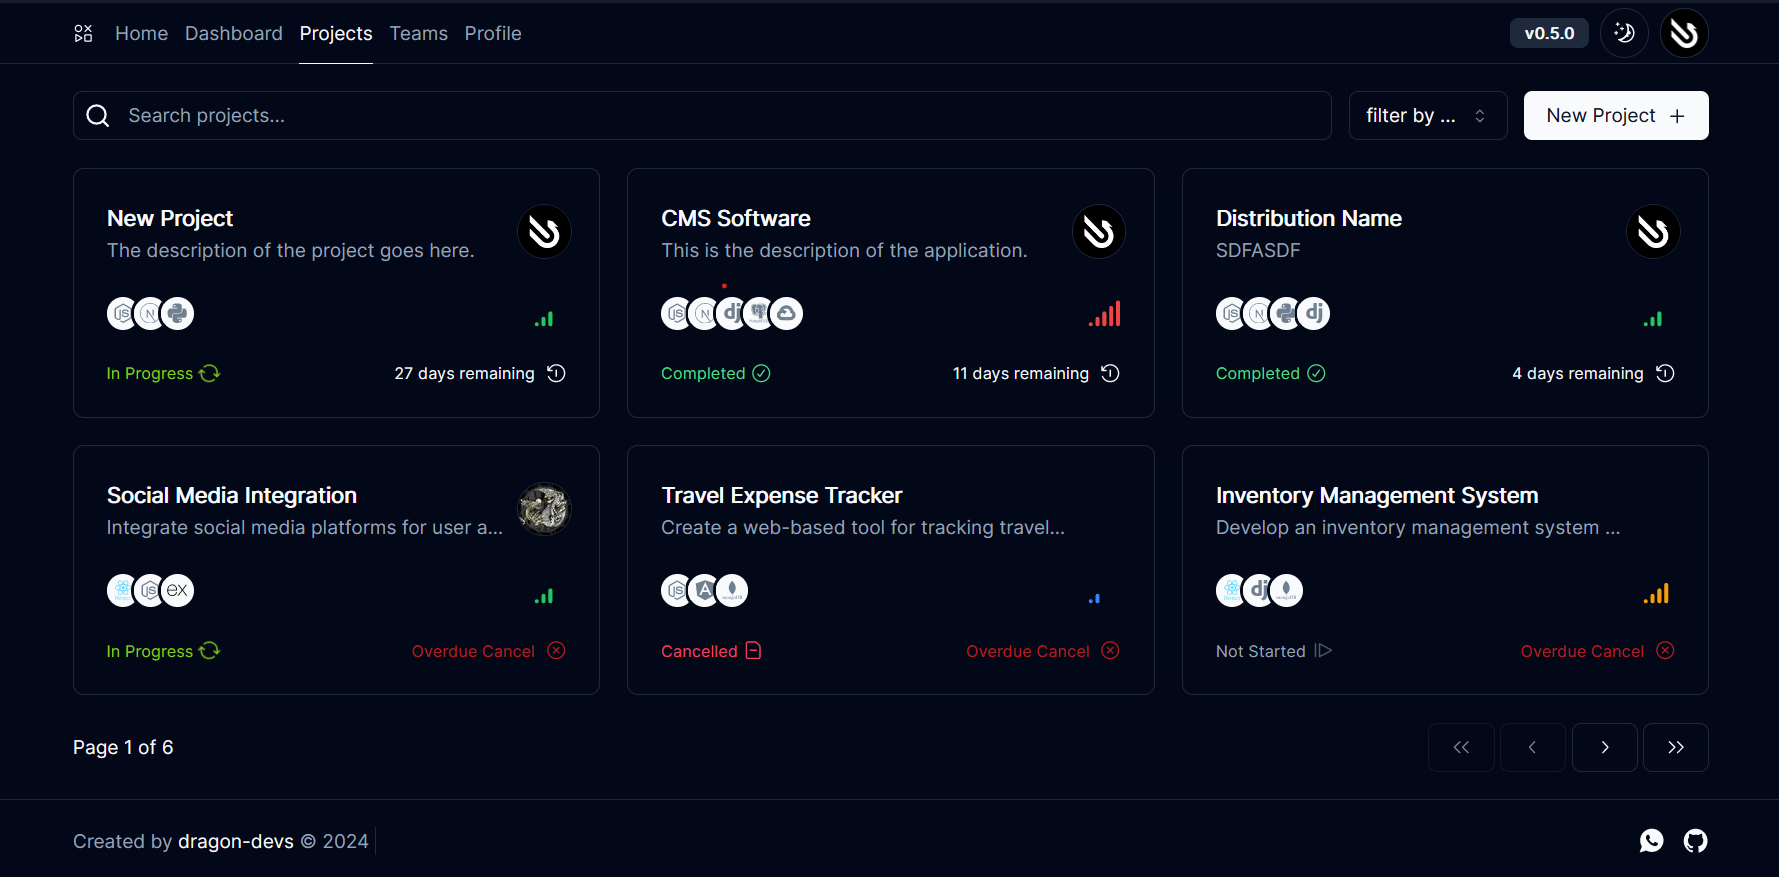
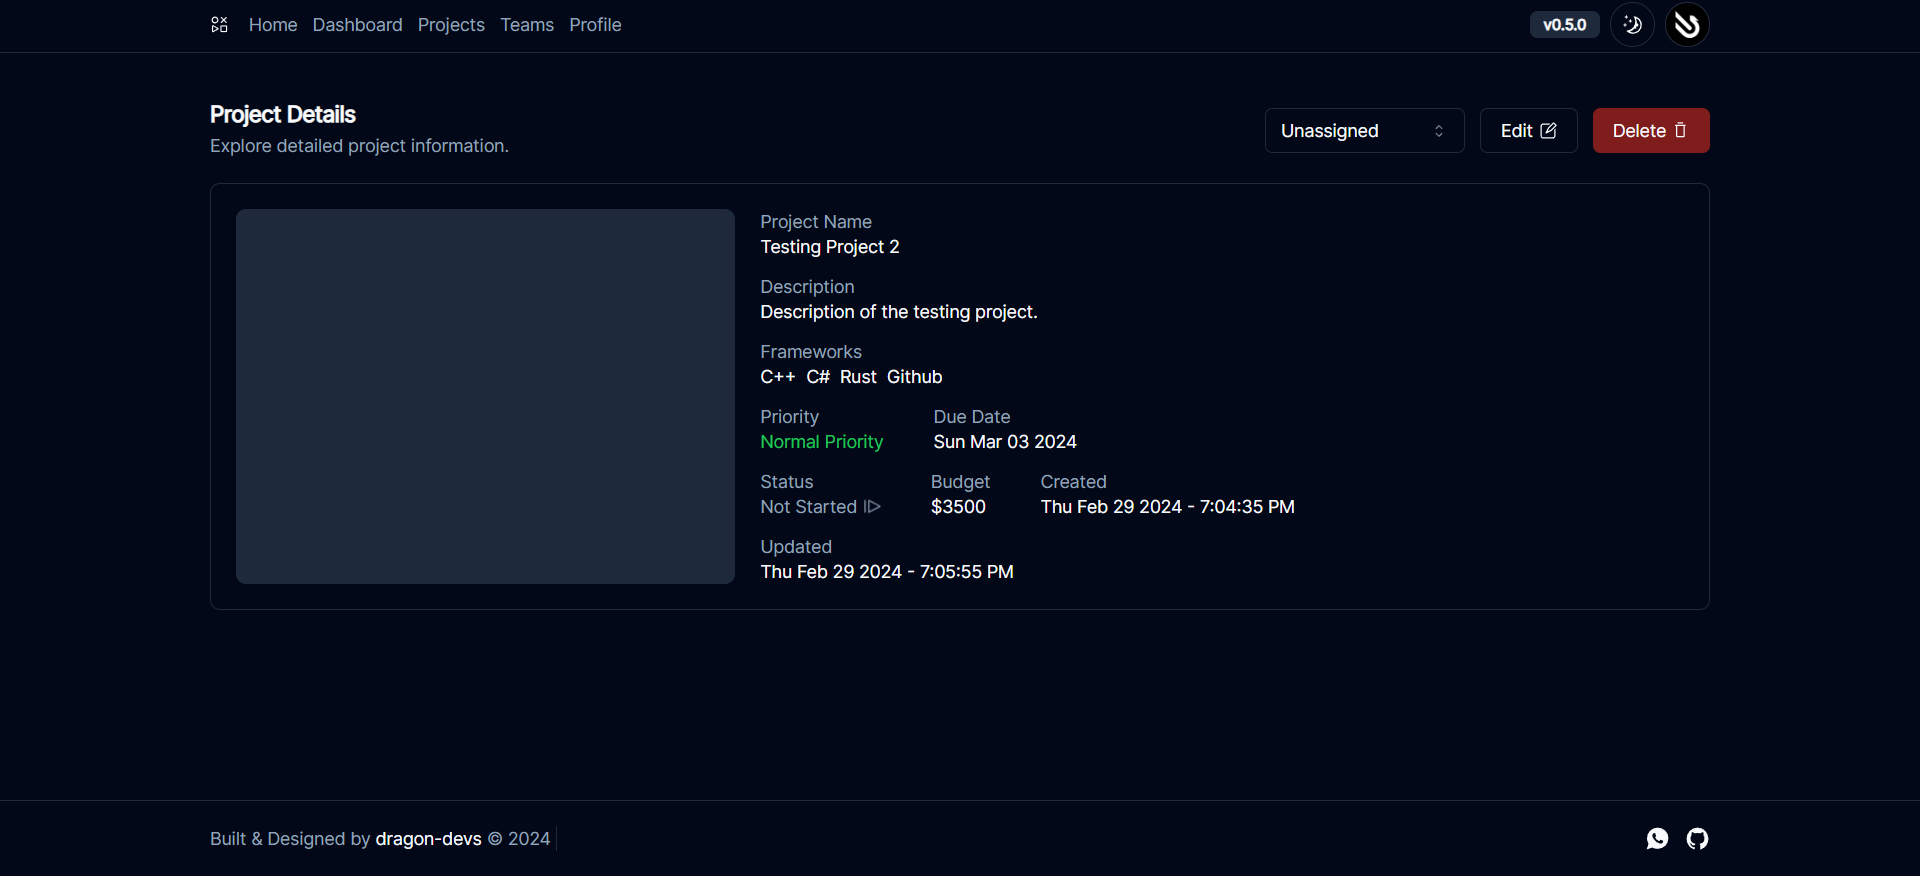
feat: adding new projects + updating

diff --git a/app/MyProjects.tsx b/app/MyProjects.tsx
@@ -32,11 +32,8 @@ const MyProjects = () => {
                             <div className="p-1">
                               <Card className="">
                                 <CardContent className="p-3 pb-0 ">
+
                                   <div className="relative border overflow-hidden rounded-sm">
-                                    <Image src={project.pictures!.pic1} alt="Project"
-                                           className="bg-muted rounded-sm h-48 w-full object-cover " width={800}
-                                           height={450}
-                                    />
                                     <div className="absolute flex flex-wrap-reverse left-2 bottom-2 gap-1 ">
                                       {project.tags?.map((tag, index) => (
                                           <Badge className="text-[10px] p-0 px-0.5 " key={index}>
@@ -44,6 +41,11 @@ const MyProjects = () => {
                                           </Badge>
                                       ))}
                                     </div>
+                                    <Image src={project.pictures![0]} alt="Project"
+                                           className="bg-muted rounded-sm h-48 w-full object-cover " width={800}
+                                           height={450}
+                                    />
+
                                   </div>
                                 </CardContent>
                                 <CardHeader className="p-3">

diff --git a/types.ts b/types.ts
@@ -14,5 +14,5 @@ interface Project {
   github_repo: string;
   project_url: string;
   tags?: string[];
-  pictures?: { [key: string]: string };
+  pictures?: string[];
 };
